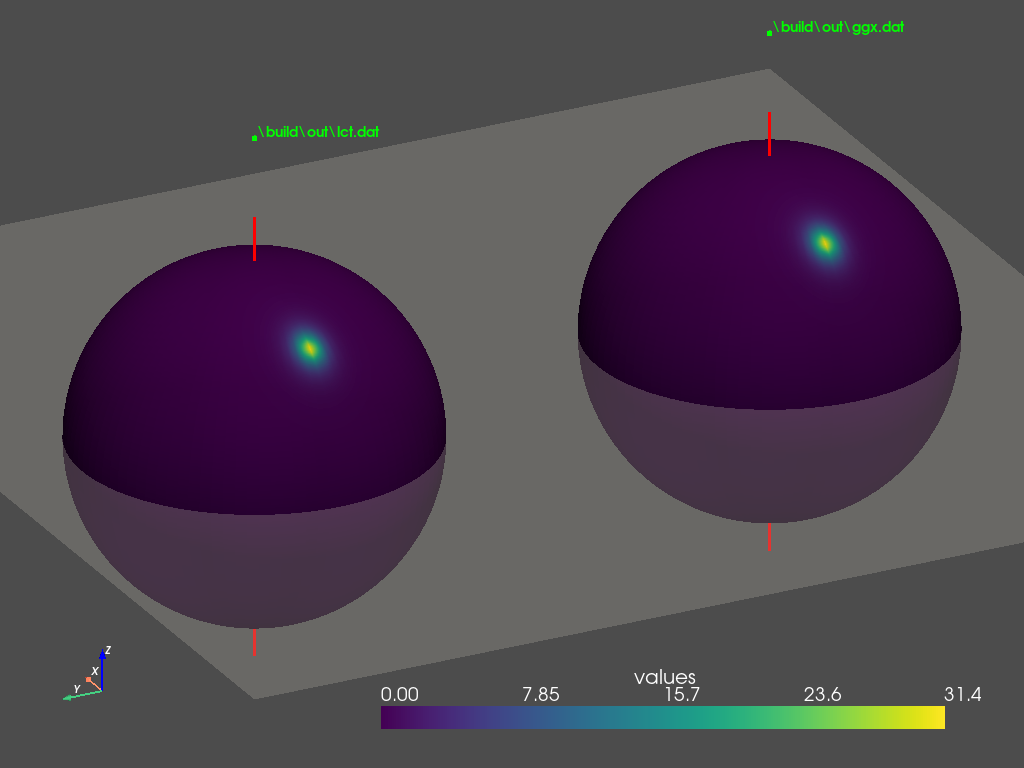
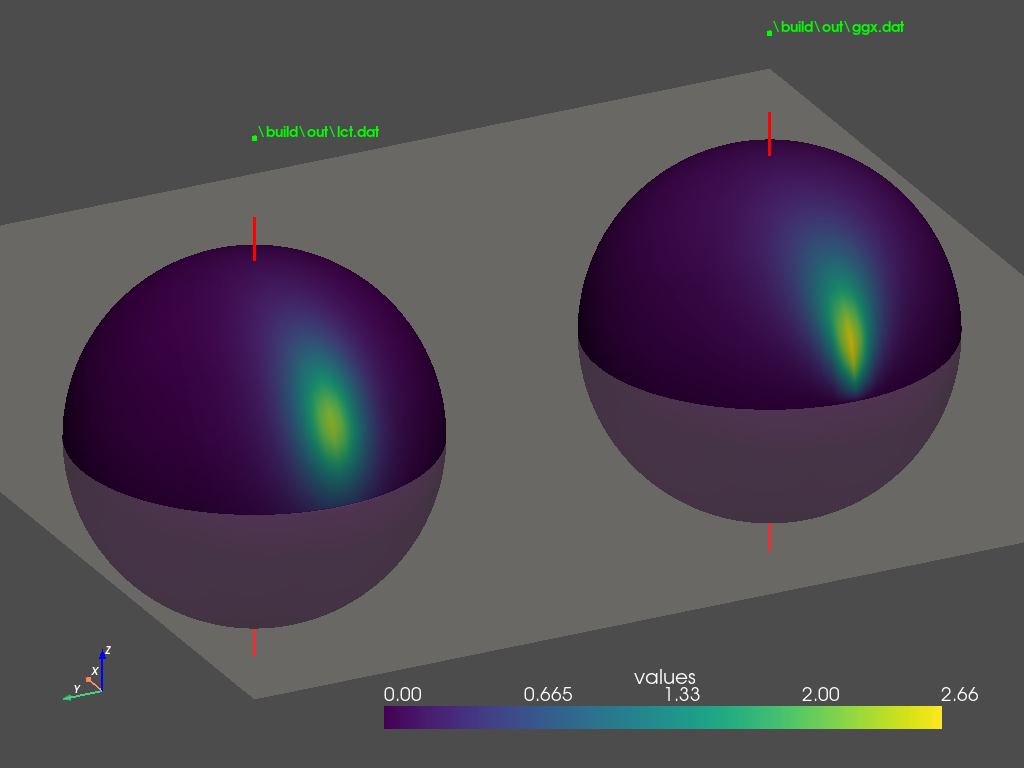
update README

diff --git a/README.md b/README.md
@@ -135,16 +135,16 @@ LCTFit.exe gen_luts
 ```
 Generated textures will be saved in `.\out` directory.
 
-Sample $\mathbf{M}$ parameters LUT at (0.24, 0.45), print corresponding LCT BRDF distribution to data file `.\out\lct.dat`
+Sample $\mathbf{M}$ parameters LUT at (0.54, 0.85), print corresponding LCT BRDF distribution to data file `.\out\lct.dat`
 
 ```
-LCTFit.exe sample_luts -t 0.45 -u 0.24 .\out\lut_bm_0.exr .\out\lut_bm_1.exr
+LCTFit.exe sample_luts -t 0.85 -u 0.54 .\out\lut_bm_0.exr .\out\lut_bm_1.exr
 ``` 
 
 Print reference GGX BRDF distribution to data file `.\out\ggx.dat`:
 
 ```
-LCTFit.exe dist-ggx -t 0.45 -u 0.24
+LCTFit.exe dist-ggx -t 0.85 -u 0.54
 ```
 
 Plot GGX and LCT distributions on 2 separate spheres side by side:
